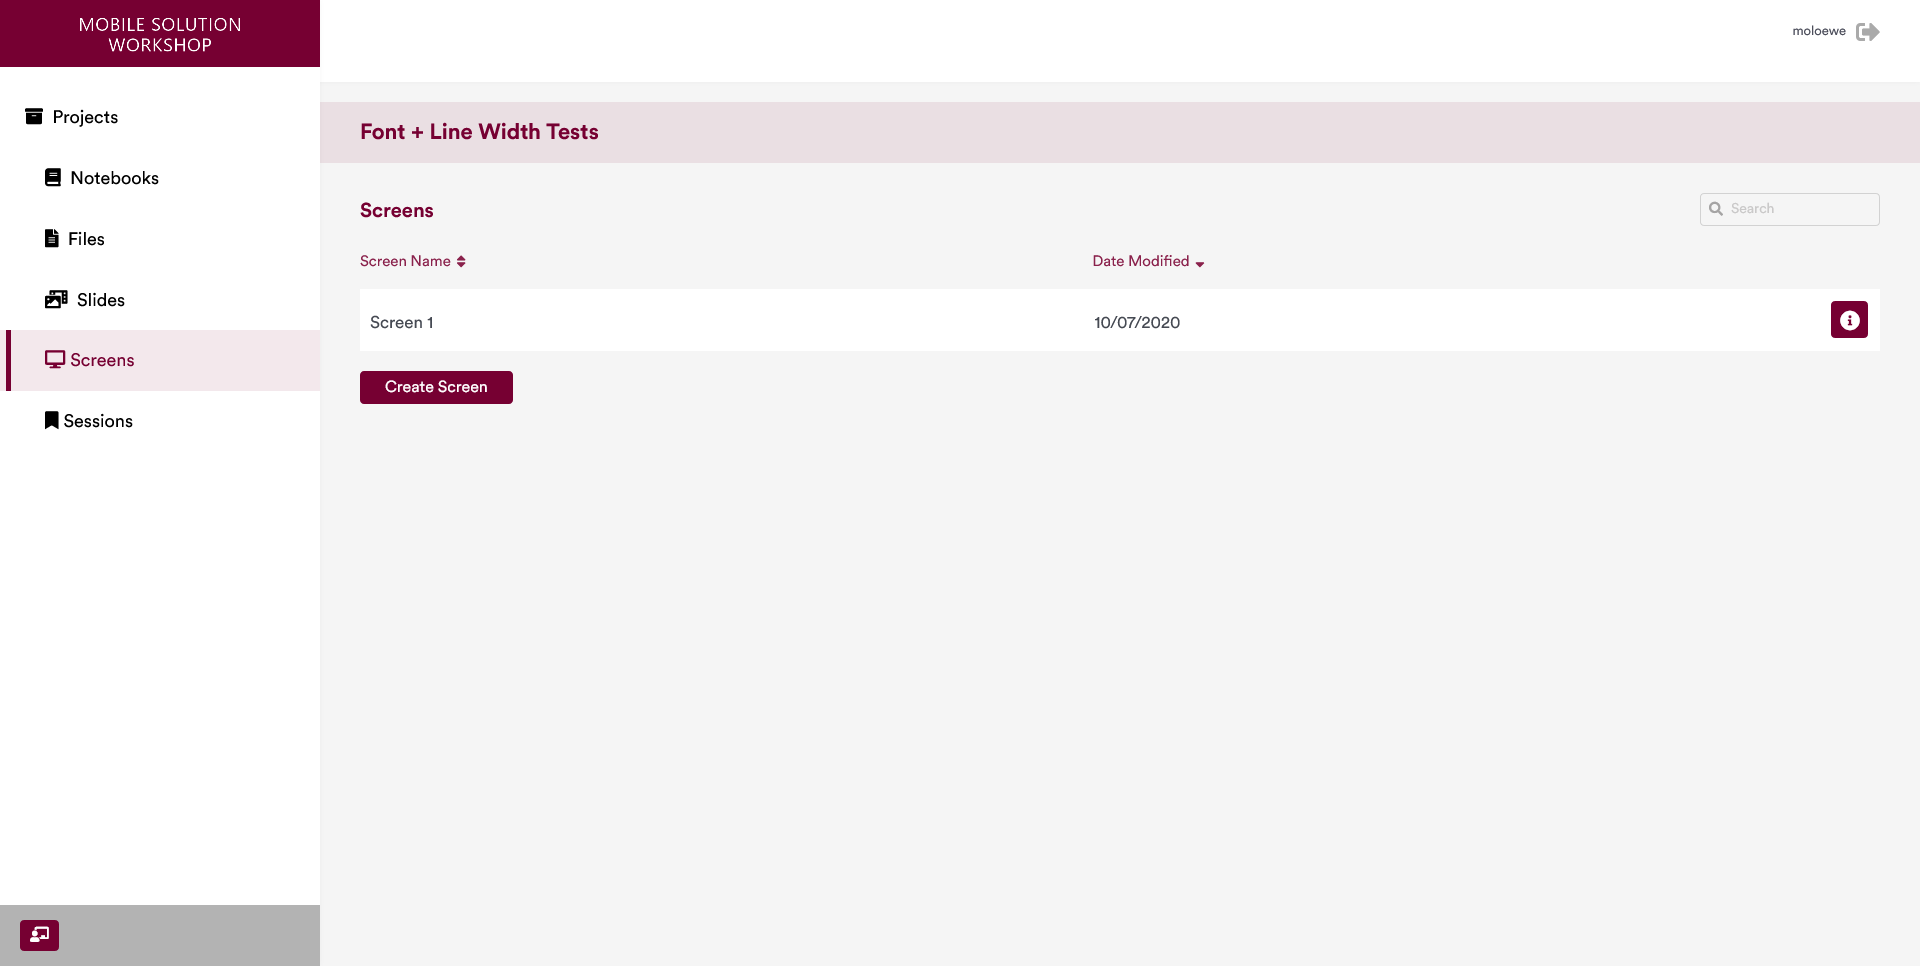
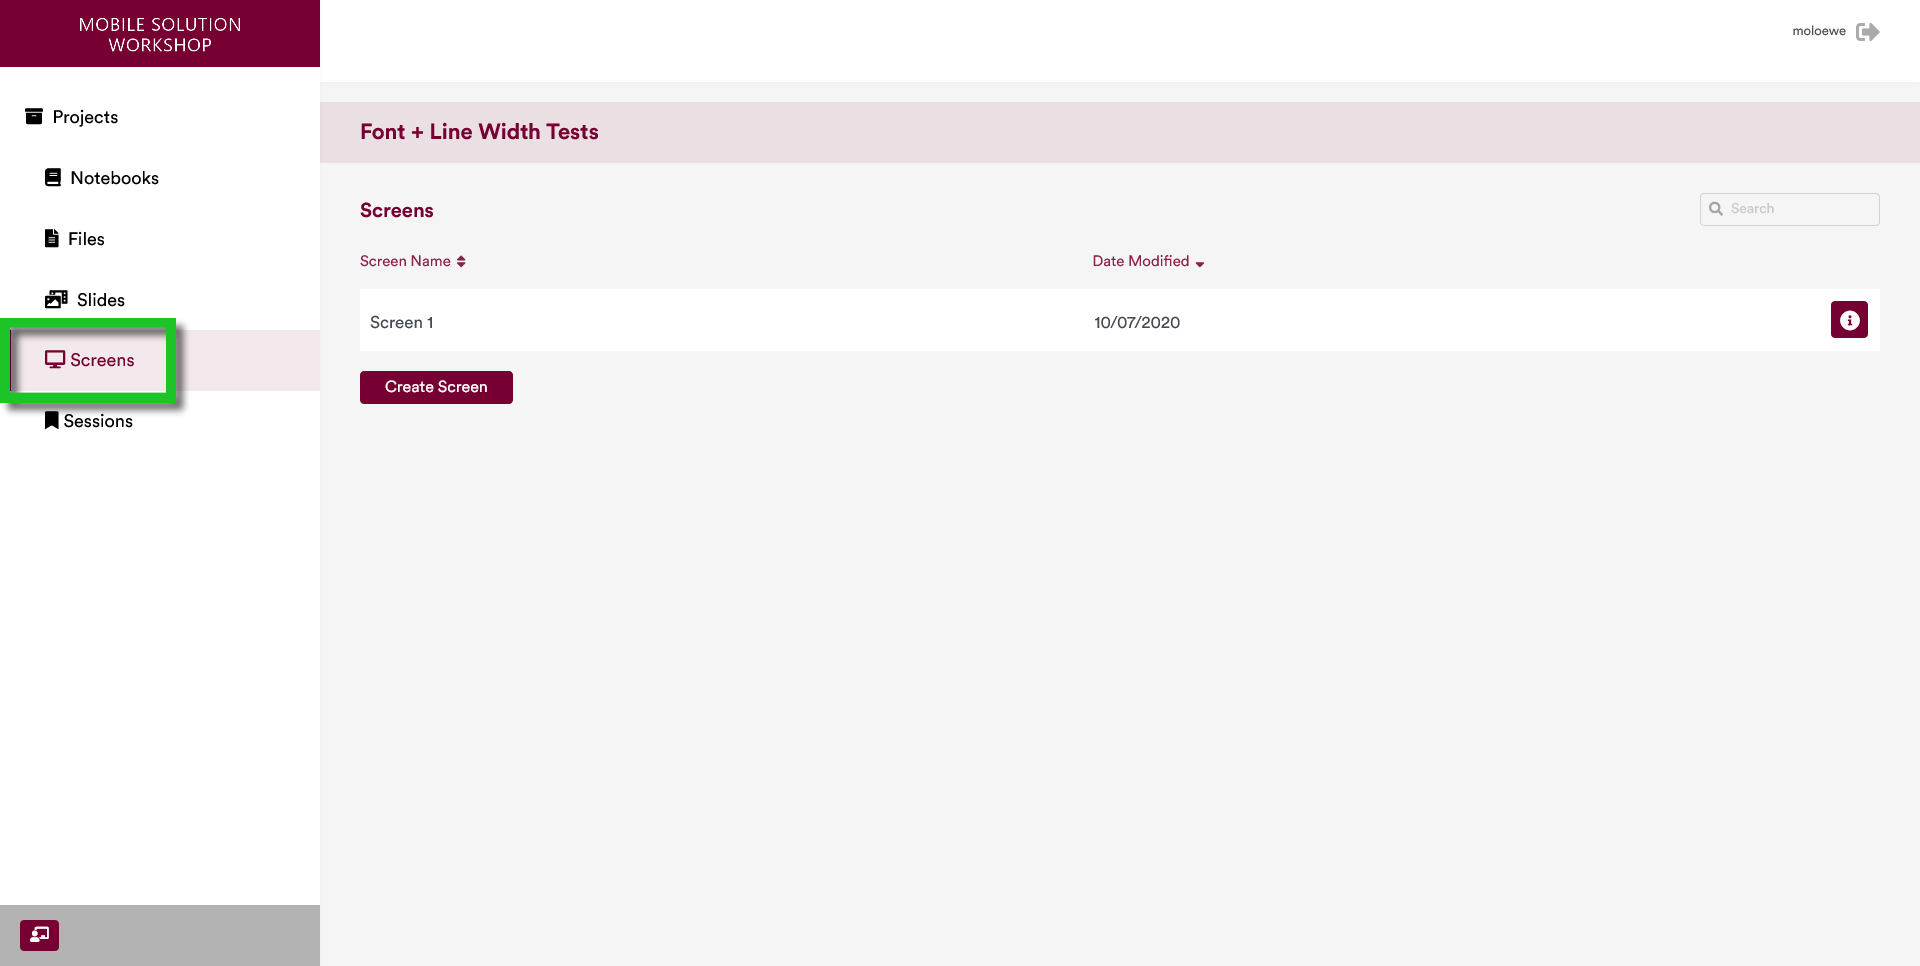
docs

Changed region(s): [[0.0, 0.3106, 0.125, 0.4348]]

diff --git a/docs/edit-mode/01_projects.md b/docs/edit-mode/01_projects.md
@@ -1,35 +1,42 @@
 # Projects
 
 Once you have logged in to MoLöwe you will see a list of projects that you have access to (see below).
-This page is called Projects page and it allows users to select a project and start working on it, or create a new project,
-or import a MoLöwe project that was exported earlier.
+This page is called Projects page. It allows users to select a project and start working on it, to create a new project,
+or to import a project that was exported earlier.
 
 ![](/img/doc/02_projects_page.jpg)
 
-In this section, all the functionality of the Projects page are discussed.
+In this chapter, the functionalities of the Projects Page are discussed.
 
-##  **1 Creating a new Project** 
+##  **1 Selecting a Project** 
 
-If a user has appropriate access rights, she can create a new project by pressing on the "Create Project" button below
-the list of projects.
+A project can be selected by clicking on the name of the project. Alternatively, you can also press the pencil icon
+to the right of the project name.
+
+In this example, a project named "Font + Line Width Test" is selected.
+
+![](/img/doc/14_select_project.jpg)
+
+When a project is selected, the details of the project are shown to the user.
+Here you can also access the different sub-pages that belong to the project.
+
+![](/img/doc/14_select_pages.jpg)
+
+##  **2 Creating a new Project** 
+
+You can create a new project by pressing the "Create Project" button below the list of projects.
 
 ![](/img/doc/12_create_project.jpg)
 
-##  **2 Editing Details of a Project** 
+##  **3 Editing Details of a Project**
 
-To edit the details of a project (e.g. project name, project description, etc.), first navigate to the project page
-by clicking on the Projects link on the top left of the screen.
+To edit the details of a project, click on the **"i"** icon on the right side of the project name that you want to edit.
 
-![](/img/doc/15_go_to_projects_page.jpg)
-
-From the list of projects, identify the name of the project whose details need to be changed. In this example,
-we want to change the details of a project named "Font + Line Width Tests". 
-
-Then click on an icon with an "i" on the right side of the project name (next to the pencil icon).
+In this example, we want to change the details of a project named "Font + Line Width Tests". 
 
 ![](/img/doc/16_change_project_information.jpg)
 
-Then, the user is taken to a page where the project details can be changed.
+You will see a page where the project details can be changed.
 
 ![](/img/doc/17_project_details_edit_page.jpg)
 
@@ -44,22 +51,6 @@ Once the changes have been made, you can save the changes by pressing on the "Sa
 
 This page also allows users to delete or export the project by clicking on respective buttons.
 
-##  **3 Selecting a Project** 
-
-A project can be selected by clicking on the name of the project. 
-
-Alternatively, one can also press on the pencil icon to the right of the project name to select a project.
-When a project is selected, the details of the project are shown to the user (see below). 
-
-(In this example, a project named "Font + Line Width Test" was selected.)
-
-![](/img/doc/04_project_details.jpg)
-
-When a project has been selected, the different sub-pages that belong to the project from which you can upload your
-custom notebook and files, and create slides can be accessed by clicking on their names on the left side of the page.
-
-![](/img/doc/14_select_pages.jpg)
-
 ##  **4 Importing a Project** 
 
 MoLöwe projects can be exported as a zip file. If a user already has a project that was exported from MoLöwe previously,
@@ -69,13 +60,11 @@ they can import the entire projects using the "Import Project" button next to th
 
 ##  **5 Deleting or Exporting a Project** 
 
-Navigate to the page where project details can be changed by following steps detailed in Step 3.
+Navigate to the page where project details can be changed.
 
-This will lead to a page where you can edit details of the project (see below).
+![](/img/doc/16_change_project_information.jpg)
 
-![](/img/doc/17_project_details_edit_page.jpg)
-
-The same page also allows users to delete or export a given project. This can be done by pressing the related buttons
-on the bottom left side of the project details (see below).
+This page also allows users to delete or export a project. This can be done by pressing the related buttons
+on the bottom left side of the project details.
 
 ![](/img/doc/18_delete_export_project.jpg)

diff --git a/docs/project_notebook/setting_up_tools.md b/docs/project_notebook/setting_up_tools.md
@@ -1,0 +1,88 @@
+---
+sidebar_position: 1
+---
+
+# Setting Up Tools
+
+Each MoLöwe project contains a [**Project Notebook**](../glossary.md#project-notebook). 
+Here you can set up some of the **MoLöwe tools** using Python programming.
+The required steps to achieve this are presented in this chapter.
+
+(Note: Some MoLöwe tools do not need to be set up in the Project Notebook, see the
+[**Tools Chapter**](docs/moloewe-tools/00_overview.md))
+
+:::note Python
+Although you will set up MoLöwe tools using Python, programming experience with Python is **not** required.
+This chapter is set up for users with no Python experience.
+
+However, if you're experienced with Python and would like to explore more advanced applications,
+you can also check out the chapter for [**Advanced Users**](docs/project_notebook/setting_up_environment.md).
+:::note
+
+## **1 Acquiring the Project Notebook**
+
+When a new MoLöwe project is created, a Project Notebook is automatically generated (named "Template Notebook").
+Please go to your [**Project Page**](docs/user-interface.md#3-edit-mode) and download the Project Notebook with the
+steps described [**here**](docs/edit-mode/02_notebooks.md#1-download-a-project-notebook).
+
+## **2 Accessing the Project Notebook**
+
+You can access the Project Notebook using **JupyterHub**.
+You have received a username and password for JupyterHub together with your MoLöwe user account.
+
+You can open JupyterHub [**here**](https://jupyter.leuphana.de/hub/login?next=%2Fhub%2F).
+
+Once you logged in to JupyterHub, please upload the Project Notebook by clicking the "Upload Files" button and choose
+the Project Notebook from your download folder.
+
+![](/img/doc/project_notebook_1.jpg)
+
+Now open the Project Notebook by double-clicking on it in the left sidebar. The notebook will open in a new tab.
+
+![](/img/doc/project_notebook_2.png)
+
+## **3 Structure of a Project Notebook**
+
+In order to make the Python code easier to read, the Project Notebook is arranged into cells.
+Each cell fulfills a specific task in the notebook.
+
+For your purposes (setting up MoLöwe tools) only the following cells are relevant/need to be edited:
+
+**Preparatory code:**
+* Import modules
+* Access Tokens and API Keys
+* Global Variables, Constants, Settings
+* Notebook Functions
+
+** Tool Functions:**
+* Tool Switch
+* Tool Dropdown
+* Tool Button
+* Tool Slider
+* Tool Map
+* Tool Graph
+
+- python code ist in einzelnen tool kapiteln (wichtig: plotly nicht kommentieren!)
+
+Tools using the Project Notebook are defined as either a `get_` function or a pair of `get_` and `set_` functions.
+All the functions that belong to a category of tools are placed within a single dedicated Python `class`. Hence, a Python class
+is defined for each of the tool mentioned here. For instance, if one needs to create 2 different Plotly charts,
+they need to place two `get_` functions with unique names (eg. `get_first_chart` and `get_second_chart`) under a single
+class named `tool_graph`.
+
+Below are the files that can be uploaded and the directories in the project that they will be placed in.
+
+| File Extension                    | Project Directory | Description          |
+|-----------------------------------|-------------------|----------------------|
+| `.PNG`                            | `/image`          | Image                |
+| `.JPG` or `.jpg`                  | `/image`          | Image                |
+| `.JPEG` or `.jpeg`                | `/image`          | Image                |
+| `.MP4` or `.mp4`                  | `/video`          | Video file           |
+| `.txt`                            | `/text`           | Text file            |
+| `.md`                             | `/text`           | Markdown file        |
+| `.html` or `.HTML`                | `/text`           | HTML file            |
+| `.shp`, `.shx`, `.prj` and `.dbf` | `/data`           | Shapefile extensions |
+
+## **4 Uploading the Project Notebook to MoLöwe**
+
+see steps in chapter notebooks

diff --git a/docs/edit-mode/03_files.md b/docs/edit-mode/03_files.md
@@ -1,32 +1,30 @@
 # Files
 
-Once you select a project, you can visit the Files page of the project by clicking on "Files" on the left panel of the user interface.
+Once you select a project, you can visit the Files Page of the project by clicking on "Files" in the sidebar on the left.
 
-The files page displays the files associated with a selected project. Additionally, this page allows users to upload
-files that they need for their project.
+The Files Page displays the files that were uploaded to the project. Additionally, this page allows users to upload
+files to their project.
 
 ![](/img/doc/06_files_page.jpg)
 
 ## **1 Supported Files**
 
-Files that are uploaded to MoLöwe are placed in a certain project directory based on the extension of the uploaded file.
-
 Below are the files that can be uploaded and the directories in the project that they will be placed in.
 
-| File Extension | Project Dir. Location | Description          |
-| ----------- |-----------------------|----------------------|
-| `.PNG`        | text                  | Image                |
-| `.JPG` or `.jpg`        | text                  | Image                |
-| `.JPEG` or `.jpeg`        | text                  | Image                |
-| `.MP4` or `.mp4`        | `/video`              | Video file           |
-| `.txt`        | `/text`               | Text file            |
-| `.md`        | `/text`               | Markdown file        |
-| `.html` or `.HTML`        | `/text`               | HTML file            |
-| `.shp`, `.shx`, `.prj` and `.dbf`        | `/data`               | Shapefile extensions |
+| File Extension                    | Project Directory | Description          |
+|-----------------------------------|-------------------|----------------------|
+| `.PNG`                            | `/image`          | Image                |
+| `.JPG` or `.jpg`                  | `/image`          | Image                |
+| `.JPEG` or `.jpeg`                | `/image`          | Image                |
+| `.MP4` or `.mp4`                  | `/video`          | Video file           |
+| `.txt`                            | `/text`           | Text file            |
+| `.md`                             | `/text`           | Markdown file        |
+| `.html` or `.HTML`                | `/text`           | HTML file            |
+| `.shp`, `.shx`, `.prj` and `.dbf` | `/data`           | Shapefile extensions |
 
 :::info
-Accessing files via the Project Notebook is discussed in the chapter on
-[**Template Notebook**](docs/05-working-with-notebooks/00_template_notebook.md).
+Accessing files via the Project Notebook is discussed in chapter
+[**Setting up Tools**](docs/project_notebook/setting_up_tools.md).
 :::
 
 ## **2 Upload a new File**

diff --git a/docs/edit-mode/05_slides.md b/docs/edit-mode/05_slides.md
@@ -25,20 +25,19 @@ If a user has appropriate access rights, she can create a new slide by pressing 
 
 ![](/img/doc/29_create_slide.jpg)
 
-Then, the users will be presented a page where the slide being created can be given a name (in the example below,
+The user will be presented a page where the slide being created can be given a name (in the example below,
 the new slide is named as "Slide 2").
 
 ![](/img/doc/30_create_slide_interface.jpg)
 
 After naming the slide, users can click on "Save" button to confirm creation of the slide.
 
-In the same page, users can also change other metadata of the slide; namely, slide name, slide description,
+In the same page, users can also change other metadata of the slide: slide name, slide description,
 slide background image or slide background color.
 
 ## **2 Editing Slide Details**
 
-Slides can be given custom names, descriptions, and a background color or an image. To edit these parameters of slides,
-users can click on the "**i**" icon on the right hand side of the name of the slide.
+To edit slide details, click on the "**i**" icon on the right-hand side of the name of the slide.
 
 ![](/img/doc/31_edit_slide_button.jpg)
 
@@ -88,13 +87,6 @@ Edit Mode allows users to edit the contents of the slide. This means that any [*
 To edit a slide (in this case "Slide 1"), click on the name of the slide.
 
 ![](/img/doc/33_enter_edit_mode.jpg)
-
-:::info
-
-Loading slides runs the contents of the [**Template Notebook**](docs/working-with-notebooks/00_template_notebook.md).
-Depending on the amount of code placed in the notebook, it might take some time to load the slide.
-
-:::
 
 In Edit Mode, an empty slide with a gray background looks like the following.
 

diff --git a/docs/workflow.md b/docs/workflow.md
@@ -57,7 +57,7 @@ This will determine if the following step will be relevant for you.
 ## <Highlight> 4 Prepare the Project Notebook </Highlight>
 
 This step is relevant for you, if the tools you want to use need to be set up in the Project Notebook.
-In this case, please follow chapter [**Project Notebook**](docs/project_notebook.md).
+In this case, please follow chapter [**Setting up Tools**](docs/project_notebook/setting_up_tools.md).
 
 **Otherwise, you can skip to the next step.**
 
@@ -74,6 +74,8 @@ Open a new tab for each monitor and select respective screen and mode.
 Erklären, dass man im Presentation Mode nicht slides öffnet, sondern screens.
 Für jeden Screen einen neuen tab.
 
+GIF erstellen
+
 ---
 
 **About User privileges**
@@ -89,7 +91,8 @@ For each user account privileges may be given to certain functionalities in Edit
 - Based on open standard frameworks (_plotly, Echarts, mapbox_).
 - With control elements for interactive data visualisation (button, switch, dropdown, slider).
 - User programs interactive content and tools in _jupyter notebook_ ( _Python_ language).
-- Content that is not interactive (video, image, slideshow, textbox) can be added via the MoLöwe Software directly (not programmed in  _jupyter notebook_ ).
+- Content that is not interactive (video, image, slideshow, textbox) can be added via the MoLöwe Software directly
+(not programmed in  _jupyter notebook_ ).
 - Users upload their _jupyter notebook_ based on the jupyter notebook template for their project.
 - Users upload files, like images, videos, text and data for their project.
 - MoLöwe Software runs with any browser, but use Mozilla Firefox for optimal results.

diff --git a/docs/edit-mode/02_notebooks.md b/docs/edit-mode/02_notebooks.md
@@ -1,9 +1,9 @@
 # Notebooks
 
-Once you select a project, you can visit the Notebooks page of the project by clicking on "Notebooks" in the sidebar
+Once you select a project, you can visit the Notebooks Page by clicking on "Notebooks" in the sidebar
 on the left.
 
-This page displays the Project Notebook of the selected project.
+Here you can find the Project Notebook of the project.
 
 ![](/img/doc/05_notebooks_page.jpg)
 

diff --git a/docs/user-interface.md b/docs/user-interface.md
@@ -117,8 +117,6 @@ You can start Presentation Mode directly from Edit Mode by pressing on the butto
 
 When this button is pressed, the Presentation Mode will open which allows users to start a presentation by selecting a project.
 
-![](/img/doc/11_presentation_selection_page.jpg)
-
 Of course, you can also start Presentation Mode from the selection page if you prefer.
 
 ## **4 Presentation Mode**

diff --git a/docs/project_notebook/template_notebook.md b/docs/project_notebook/template_notebook.md
@@ -1,4 +1,8 @@
-# Template Notebook
+---
+sidebar_position: 3
+---
+
+# Advanced: Template Notebook
 
 Each MoLöwe project contains a [**Project Notebook**](glossary.md#notebook).
 It is used to set up some of the MoLöwe tools, using a Python code written in a specific structure (i.e. function).

diff --git a/docs/project_notebook/setting_up_environment.md b/docs/project_notebook/setting_up_environment.md
@@ -1,4 +1,8 @@
-# Setting up an Environment
+---
+sidebar_position: 2
+---
+
+# Advanced: Setting up an Environment
 
 MoLöwe projects are set up using a Jupyter Notebook file, called *MoLöwe Notebook*, and the options available on the MoLöwe platform.
 
